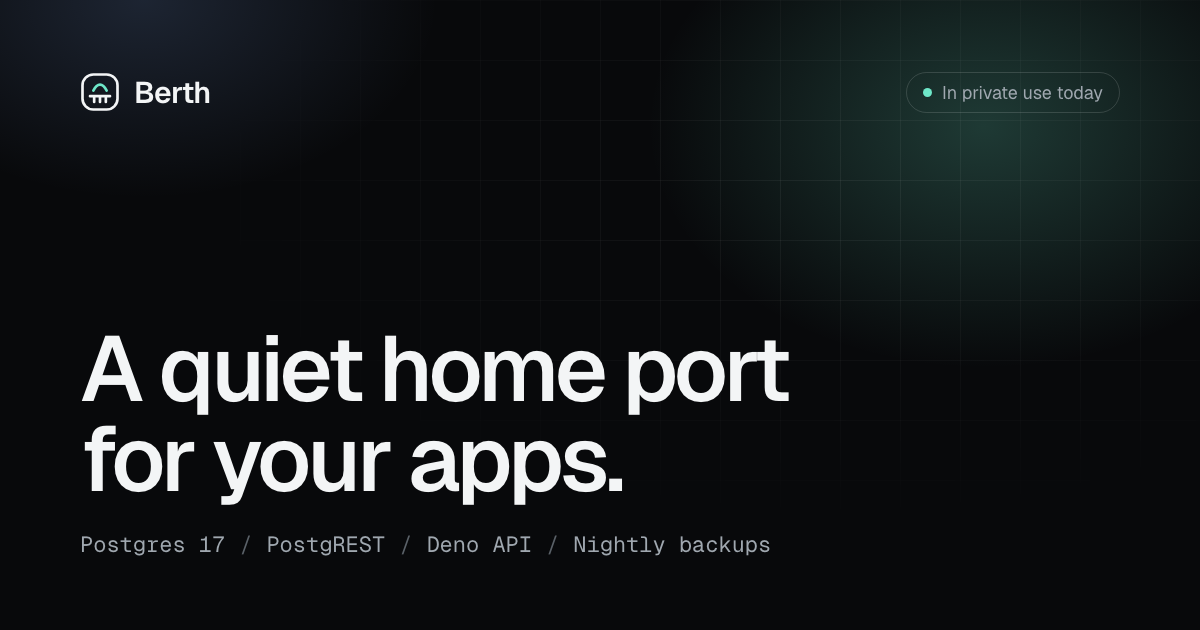
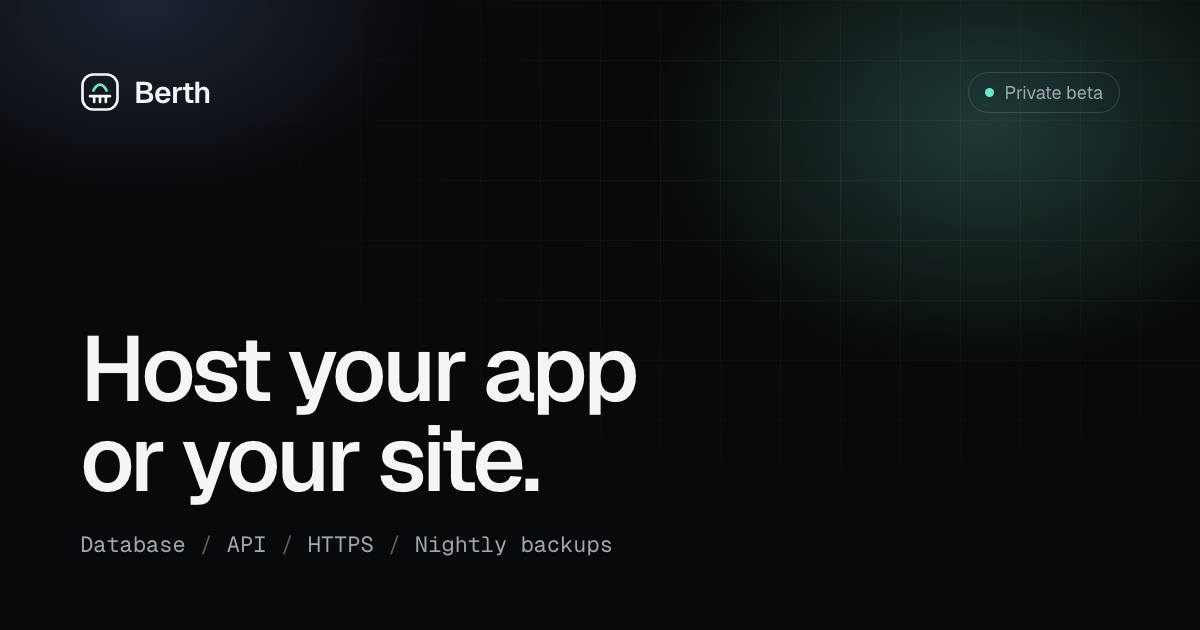
copy: sell Berth as paid hosting
Visitors should see a berth they can request, with a database, API, HTTPS, and backups, instead of a personal migration story.

diff --git a/src/index.html b/src/index.html
@@ -3,8 +3,8 @@
 <head>
 <meta charset="utf-8">
 <meta name="viewport" content="width=device-width, initial-scale=1, viewport-fit=cover">
-<title>Berth: a quiet home port for your apps</title>
-<meta name="description" content="Berth is a self-built hosting stack: Postgres 17, PostgREST, and a Deno API on one always-on server, with nightly backups and verified syncs. In private use today. Goal: a $0 monthly bill.">
+<title>Berth: host your app or your site</title>
+<meta name="description" content="Berth hosts your app or website on Mike's servers. You get a database, an API, HTTPS, and nightly backups. Private beta. Pricing when you request access.">
 <link rel="canonical" href="https://atberth.com/">
 <meta name="theme-color" content="#08090b" media="(prefers-color-scheme: dark)">
 <meta name="theme-color" content="#f6f6f3" media="(prefers-color-scheme: light)">
@@ -12,15 +12,15 @@
 <meta property="og:type" content="website">
 <meta property="og:site_name" content="Berth">
 <meta property="og:url" content="https://atberth.com/">
-<meta property="og:title" content="Berth: a quiet home port for your apps">
-<meta property="og:description" content="Postgres 17, PostgREST, and a Deno API on one always-on server. Nightly backups. Verified syncs. A $0 monthly bill as the goal.">
+<meta property="og:title" content="Berth: host your app or your site">
+<meta property="og:description" content="Paid hosting for your app or website. Database, API, HTTPS, and nightly backups. Private beta. Pricing when you request access.">
 <meta property="og:image" content="https://atberth.com/assets/og.png">
 <meta property="og:image:width" content="1200">
 <meta property="og:image:height" content="630">
-<meta property="og:image:alt" content="Berth. A quiet home port for your apps.">
+<meta property="og:image:alt" content="Berth. Host your app or your site.">
 <meta name="twitter:card" content="summary_large_image">
-<meta name="twitter:title" content="Berth: a quiet home port for your apps">
-<meta name="twitter:description" content="Postgres 17, PostgREST, and a Deno API on one always-on server. Nightly backups. Verified syncs.">
+<meta name="twitter:title" content="Berth: host your app or your site">
+<meta name="twitter:description" content="Paid hosting for your app or website. Database, API, HTTPS, and nightly backups. Pricing when you request access.">
 <meta name="twitter:image" content="https://atberth.com/assets/og.png">
 <link rel="icon" href="/favicon.svg" type="image/svg+xml">
 <link rel="icon" href="/assets/favicon-32.png" sizes="32x32" type="image/png">
@@ -45,15 +45,15 @@
     <nav class="nav-links" aria-label="Primary">
       <a href="#platform">Platform</a>
       <a href="#how">How it works</a>
-      <a href="#status">Status</a>
-      <a href="#apps">Apps</a>
+      <a href="#status">Included</a>
+      <a href="#apps">Hosted</a>
     </nav>
     <div class="nav-actions">
       <button class="theme" type="button" aria-label="Switch to light theme" data-theme-toggle>
         <svg class="i-sun" viewBox="0 0 24 24" aria-hidden="true"><circle cx="12" cy="12" r="4"/><path d="M12 2v2M12 20v2M4.9 4.9l1.4 1.4M17.7 17.7l1.4 1.4M2 12h2M20 12h2M4.9 19.1l1.4-1.4M17.7 6.3l1.4-1.4"/></svg>
         <svg class="i-moon" viewBox="0 0 24 24" aria-hidden="true"><path d="M20 14.5A8 8 0 1 1 9.5 4a6.5 6.5 0 0 0 10.5 10.5z"/></svg>
       </button>
-      <a class="btn btn-sm btn-light" href="mailto:mikeshobes718@gmail.com?subject=Berth%20early%20access">Request early access</a>
+      <a class="btn btn-sm btn-light" href="mailto:mikeshobes718@gmail.com?subject=Request%20a%20berth">Request a berth</a>
     </div>
   </div>
 </header>
@@ -62,12 +62,12 @@
   <section class="hero">
     <div class="glow" aria-hidden="true"></div>
     <div class="wrap">
-      <p class="eyebrow rise"><span class="dot" aria-hidden="true"></span>In private use today</p>
-      <h1 class="rise r1">A quiet home port<br>for your apps.</h1>
+      <p class="eyebrow rise"><span class="dot" aria-hidden="true"></span>Private beta</p>
+      <h1 class="rise r1">Host your app<br>or your site.</h1>
       <div class="hero-sub rise r2">
-        <p>Berth is a self-built hosting stack that moves apps off Supabase and Vercel. Postgres, an instant REST API, and nightly backups on one always-on server. The goal is a $0 monthly bill.</p>
+        <p>Berth hosts it on Mike's servers. You get a database, an API, HTTPS, and nightly backups. This is paid hosting, in private beta. Pricing when you request access.</p>
         <div class="hero-cta">
-          <a class="btn btn-light" href="mailto:mikeshobes718@gmail.com?subject=Berth%20early%20access">Request early access</a>
+          <a class="btn btn-light" href="mailto:mikeshobes718@gmail.com?subject=Request%20a%20berth">Request a berth</a>
           <a class="btn btn-ghost" href="#how">How it works <span aria-hidden="true">&rarr;</span></a>
         </div>
       </div>
@@ -75,19 +75,17 @@
       <figure class="window rise r3" aria-labelledby="flow-cap">
         <div class="window-bar">
           <span class="lights" aria-hidden="true"><i></i><i></i><i></i></span>
-          <span class="window-title">berth / data path</span>
-          <span class="tag">Design diagram, not live data</span>
+          <span class="window-title">berth / your app</span>
+          <span class="tag">Illustrative</span>
         </div>
         <div class="flow">
           <div class="node apps">
-            <p class="node-k">Apps</p>
-            <ul class="chips">
-              <li>Clip</li><li>Spot</li><li>Haul</li><li>Riff</li><li>FormForge</li><li>Heard</li><li>13 Luas</li>
-            </ul>
+            <p class="node-k">Your app</p>
+            <p class="node-v">The app or site you want hosted.</p>
           </div>
           <div class="wire" aria-hidden="true"></div>
           <div class="vm">
-            <p class="vm-label"><span>Oracle Cloud Always Free</span><span>ARM</span><span>2 cores</span><span>12 GB</span></p>
+            <p class="vm-label"><span>Your berth</span><span>HTTPS</span><span>API</span><span>Postgres</span></p>
             <div class="vm-grid">
               <div class="node n-https">
                 <p class="node-k">HTTPS</p>
@@ -113,25 +111,25 @@
                 <svg class="moon" viewBox="0 0 24 24" aria-hidden="true"><path d="M20 14.5A8 8 0 1 1 9.5 4a6.5 6.5 0 0 0 10.5 10.5z"/></svg>
                 <div>
                   <p class="node-k">Every night</p>
-                  <p class="node-v">Database backup. Sync from the live database, every table count checked.</p>
+                  <p class="node-v">Database backup. Table counts checked.</p>
                 </div>
               </div>
             </div>
             <p class="vm-foot"><span class="lock" aria-hidden="true"></span>The database is never exposed to the internet.</p>
           </div>
         </div>
-        <figcaption id="flow-cap" class="sr">Apps call api.atberth.com over HTTPS. A Deno API checks the token, PostgREST turns requests into queries, and Postgres 17 answers on a private network. Every night the database is backed up and synced, with every table count checked. All of it runs on one Oracle Cloud Always Free ARM server with 2 cores and 12 GB of memory.</figcaption>
+        <figcaption id="flow-cap" class="sr">Illustrative diagram of what a customer's app runs on. The app calls the API over HTTPS. A Deno API checks the token, PostgREST turns requests into queries, and Postgres 17 answers on a private network. Every night the database is backed up and table counts are checked. The database is never exposed to the internet.</figcaption>
       </figure>
     </div>
   </section>
 
   <section class="facts" aria-label="Key facts">
     <div class="wrap facts-row">
-      <div><p class="f-v">$0</p><p class="f-k">Monthly bill, the goal</p></div>
-      <div><p class="f-v">17</p><p class="f-k">Postgres version</p></div>
-      <div><p class="f-v">2<small>ARM cores</small></p><p class="f-k">Always on</p></div>
-      <div><p class="f-v">12<small>GB</small></p><p class="f-k">Memory</p></div>
-      <div><p class="f-v">Nightly</p><p class="f-k">Backup and verified sync</p></div>
+      <div><p class="f-v">Postgres</p><p class="f-k">Your database</p></div>
+      <div><p class="f-v">HTTPS</p><p class="f-k">API for your app</p></div>
+      <div><p class="f-v">Nightly</p><p class="f-k">Backups</p></div>
+      <div><p class="f-v">Token</p><p class="f-k">On every request</p></div>
+      <div><p class="f-v">Beta</p><p class="f-k">Pricing on request</p></div>
     </div>
   </section>
 
@@ -139,15 +137,15 @@
     <div class="wrap">
       <div class="sec-head reveal">
         <p class="kicker">Platform</p>
-        <h2>Everything an app needs.<br><span class="soft">Nothing it bills for.</span></h2>
-        <p class="lede">The core pieces behind every app on Berth. Real Postgres, an API in front of it, and the boring nightly work that keeps data safe.</p>
+        <h2>What you get.<br><span class="soft">A place to run it.</span></h2>
+        <p class="lede">You pay Berth to host the app or site. That berth includes a database, an API, HTTPS, and a backup every night.</p>
       </div>
 
       <div class="bento">
         <article class="card c-db reveal">
           <div class="ico" aria-hidden="true"><svg viewBox="0 0 24 24"><ellipse cx="12" cy="5.5" rx="7.5" ry="2.8"/><path d="M4.5 5.5v13c0 1.5 3.4 2.8 7.5 2.8s7.5-1.3 7.5-2.8v-13M4.5 12c0 1.5 3.4 2.8 7.5 2.8s7.5-1.3 7.5-2.8"/></svg></div>
           <h3>Postgres 17</h3>
-          <p>The database your apps already speak. Real Postgres on the server, reachable only from inside it.</p>
+          <p>The database for your app. Real Postgres on the server, reachable only from inside it.</p>
           <ul class="sub">
             <li><span class="b" aria-hidden="true"></span>Postgres 17</li>
             <li><span class="b" aria-hidden="true"></span>Private network only</li>
@@ -162,17 +160,17 @@
         <article class="card c-on reveal">
           <div class="ico" aria-hidden="true"><svg viewBox="0 0 24 24"><rect x="3.5" y="4" width="17" height="7" rx="2"/><rect x="3.5" y="13" width="17" height="7" rx="2"/><path d="M7 7.5h.01M7 16.5h.01"/></svg></div>
           <h3>Always on</h3>
-          <p>One server that never sleeps. Oracle Cloud Always Free, on ARM.</p>
+          <p>Your app runs on a server that stays up. Berth looks after the machine.</p>
           <ul class="sub">
-            <li><span class="b" aria-hidden="true"></span>2 ARM cores</li>
-            <li><span class="b" aria-hidden="true"></span>12 GB of memory</li>
+            <li><span class="b" aria-hidden="true"></span>Server stays up</li>
+            <li><span class="b" aria-hidden="true"></span>Berth runs it for you</li>
           </ul>
         </article>
 
         <article class="card reveal">
           <div class="ico" aria-hidden="true"><svg viewBox="0 0 24 24"><path d="M8 5 3 12l5 7M16 5l5 7-5 7"/></svg></div>
           <h3>PostgREST</h3>
-          <p>Tables become REST endpoints. No hand-written CRUD layer to keep in sync.</p>
+          <p>Your tables become REST endpoints. The API follows the database schema.</p>
           <pre class="code" aria-label="Example request"><code><span class="c-k">GET</span> https://api.atberth.com/...
 <span class="c-d">Authorization: Bearer $TOKEN</span></code></pre>
         </article>
@@ -180,7 +178,7 @@
         <article class="card reveal">
           <div class="ico" aria-hidden="true"><svg viewBox="0 0 24 24"><path d="M4 17.5 9.5 12 4 6.5M12 18h8"/></svg></div>
           <h3>Deno API</h3>
-          <p>Custom server logic in TypeScript, sitting in front of the database behind HTTPS.</p>
+          <p>Server logic in TypeScript, in front of your database, behind HTTPS.</p>
           <ul class="sub">
             <li><span class="b" aria-hidden="true"></span>HTTPS at api.atberth.com</li>
             <li><span class="b" aria-hidden="true"></span>TypeScript on Deno</li>
@@ -198,21 +196,21 @@
         </article>
 
         <article class="card c-zero reveal">
-          <div class="ico" aria-hidden="true"><svg viewBox="0 0 24 24"><circle cx="12" cy="12" r="8.5"/><path d="M14.8 9.2c-.5-.9-1.6-1.4-2.8-1.4-1.6 0-2.8.8-2.8 2.1 0 3 5.8 1.4 5.8 4.3 0 1.3-1.3 2.1-3 2.1-1.3 0-2.5-.6-3-1.6M12 6.3v1.5M12 16.9v1.2"/></svg></div>
-          <h3>$0 is the goal</h3>
-          <p>Anything that can be self-built is self-built, so the monthly bill for it can sit at zero.</p>
-          <p class="big-zero" aria-hidden="true">$0<span>/mo</span></p>
+          <div class="ico" aria-hidden="true"><svg viewBox="0 0 24 24"><path d="M4 12.5 12.5 4H19v6.5L10.5 19.5 4 12.5z"/><circle cx="16" cy="8" r="1" fill="currentColor" stroke="none"/></svg></div>
+          <h3>Pricing on request</h3>
+          <p>Private beta. No public price list yet. You get the price when you ask for a berth.</p>
+          <p class="big-zero" aria-hidden="true">Beta</p>
         </article>
 
         <article class="card c-night reveal">
           <div class="ico" aria-hidden="true"><svg viewBox="0 0 24 24"><path d="M20 14.5A8 8 0 1 1 9.5 4a6.5 6.5 0 0 0 10.5 10.5z"/></svg></div>
-          <h3>Nightly backup and verified sync</h3>
-          <p>Every night the database is backed up, and the live database is synced to the server. Then every table count is checked, so a quiet failure cannot hide.</p>
+          <h3>Nightly backups</h3>
+          <p>Every night your database is backed up. Table counts are checked, so a failed backup does not pass quietly.</p>
           <div class="term" aria-label="Illustrative nightly run">
             <p class="term-h"><span>nightly run</span><span class="tag">Illustrative</span></p>
             <p><span class="t-dim">01</span> backup&nbsp;&nbsp;database&nbsp;&nbsp;<span class="t-ok">done</span></p>
-            <p><span class="t-dim">02</span> sync&nbsp;&nbsp;&nbsp;&nbsp;live to berth&nbsp;&nbsp;<span class="t-ok">done</span></p>
-            <p><span class="t-dim">03</span> check&nbsp;&nbsp;&nbsp;every table count&nbsp;&nbsp;<span class="t-ok">match</span></p>
+            <p><span class="t-dim">02</span> check&nbsp;&nbsp;&nbsp;every table count&nbsp;&nbsp;<span class="t-ok">match</span></p>
+            <p><span class="t-dim">03</span> database stays private&nbsp;&nbsp;<span class="t-ok">yes</span></p>
           </div>
         </article>
       </div>
@@ -223,25 +221,25 @@
     <div class="wrap how">
       <div class="how-copy reveal">
         <p class="kicker">How it works</p>
-        <h2>From rented to moored,<br><span class="soft">one careful step at a time.</span></h2>
-        <p class="lede">Moving an app is not a leap. The data comes over first, gets checked, and only then does traffic follow.</p>
+        <h2>Request a berth.<br><span class="soft">We host the app.</span></h2>
+        <p class="lede">No public signup. You write, Berth sets up the database, the API, and HTTPS, and your app runs there.</p>
       </div>
       <ol class="steps reveal">
         <li>
           <span class="num" aria-hidden="true">1</span>
-          <div><h3>Mirror</h3><p>A nightly sync copies the live database onto the Berth server, table by table.</p></div>
+          <div><h3>Request</h3><p>Tell us the app or site you want hosted. Pricing comes back with the reply.</p></div>
         </li>
         <li>
           <span class="num" aria-hidden="true">2</span>
-          <div><h3>Verify</h3><p>Every table count is checked against the source. A mismatch is a failure, not a footnote.</p></div>
+          <div><h3>Set up</h3><p>Berth prepares a database, an API, and HTTPS for it.</p></div>
         </li>
         <li>
           <span class="num" aria-hidden="true">3</span>
-          <div><h3>Point</h3><p>The app talks to api.atberth.com over HTTPS, with a token on every request.</p></div>
+          <div><h3>Connect</h3><p>Your app calls the API over HTTPS. Every request carries a token.</p></div>
         </li>
         <li>
           <span class="num" aria-hidden="true">4</span>
-          <div><h3>Protect</h3><p>The database stays off the internet, and a fresh backup lands every night.</p></div>
+          <div><h3>Keep</h3><p>Backups run every night. The database stays off the public internet.</p></div>
         </li>
       </ol>
     </div>
@@ -252,18 +250,18 @@
       <div class="status reveal">
         <div class="status-head">
           <div>
-            <p class="kicker">Status</p>
-            <h2 class="h3">What runs on Berth</h2>
+            <p class="kicker">Included</p>
+            <h2 class="h3">What your app runs on</h2>
           </div>
-          <p class="tag tag-lg">Design reference. Not live monitoring. This page fetches nothing.</p>
+          <p class="tag tag-lg">Illustrative list. Not live monitoring.</p>
         </div>
         <ul class="status-list">
-          <li><span class="pip" aria-hidden="true"></span><span class="s-n">Postgres 17</span><span class="s-d">Database, private network</span><span class="bars" aria-hidden="true"></span></li>
+          <li><span class="pip" aria-hidden="true"></span><span class="s-n">Postgres 17</span><span class="s-d">Database for your app</span><span class="bars" aria-hidden="true"></span></li>
           <li><span class="pip" aria-hidden="true"></span><span class="s-n">PostgREST</span><span class="s-d">REST from the schema</span><span class="bars" aria-hidden="true"></span></li>
-          <li><span class="pip" aria-hidden="true"></span><span class="s-n">Deno API</span><span class="s-d">Token required</span><span class="bars" aria-hidden="true"></span></li>
+          <li><span class="pip" aria-hidden="true"></span><span class="s-n">Deno API</span><span class="s-d">Token on every request</span><span class="bars" aria-hidden="true"></span></li>
           <li><span class="pip" aria-hidden="true"></span><span class="s-n">HTTPS</span><span class="s-d mono">api.atberth.com</span><span class="bars" aria-hidden="true"></span></li>
           <li><span class="pip pip-n" aria-hidden="true"></span><span class="s-n">Nightly backup</span><span class="s-d">Every night</span><span class="bars" aria-hidden="true"></span></li>
-          <li><span class="pip pip-n" aria-hidden="true"></span><span class="s-n">Nightly sync</span><span class="s-d">Every table count checked</span><span class="bars" aria-hidden="true"></span></li>
+          <li><span class="pip pip-n" aria-hidden="true"></span><span class="s-n">Nightly check</span><span class="s-d">Table counts checked</span><span class="bars" aria-hidden="true"></span></li>
         </ul>
       </div>
     </div>
@@ -272,19 +270,19 @@
   <section id="apps" class="section">
     <div class="wrap">
       <div class="sec-head reveal">
-        <p class="kicker">Apps</p>
-        <h2>Home port for seven apps.</h2>
-        <p class="lede">Each app has static legal and support pages, served free from GitHub Pages.</p>
+        <p class="kicker">Hosted</p>
+        <h2>Already hosting real apps.</h2>
+        <p class="lede">These already run on Berth. Yours can be next.</p>
       </div>
       <ul class="app-grid reveal">
-        <li><a href="https://mikeshobes718.github.io/berth/clip/"><span class="a-n">Clip</span><span class="a-l">Privacy, support</span><span class="arr" aria-hidden="true">&#8599;</span></a></li>
-        <li><a href="https://mikeshobes718.github.io/berth/spot/"><span class="a-n">Spot</span><span class="a-l">Privacy, support</span><span class="arr" aria-hidden="true">&#8599;</span></a></li>
-        <li><a href="https://mikeshobes718.github.io/berth/haul/"><span class="a-n">Haul</span><span class="a-l">Privacy, support</span><span class="arr" aria-hidden="true">&#8599;</span></a></li>
-        <li><a href="https://mikeshobes718.github.io/berth/riff/"><span class="a-n">Riff</span><span class="a-l">Privacy, support</span><span class="arr" aria-hidden="true">&#8599;</span></a></li>
-        <li><a href="https://mikeshobes718.github.io/berth/formforge/"><span class="a-n">FormForge</span><span class="a-l">Privacy, terms</span><span class="arr" aria-hidden="true">&#8599;</span></a></li>
-        <li><a href="https://mikeshobes718.github.io/berth/heard/"><span class="a-n">Heard</span><span class="a-l">Privacy, support</span><span class="arr" aria-hidden="true">&#8599;</span></a></li>
-        <li><a href="https://mikeshobes718.github.io/berth/treze-luas/"><span class="a-n">13 Luas</span><span class="a-l">Privacy, support</span><span class="arr" aria-hidden="true">&#8599;</span></a></li>
-        <li><a class="a-all" href="https://mikeshobes718.github.io/berth/"><span class="a-n">All pages</span><span class="a-l">Legal and support index</span><span class="arr" aria-hidden="true">&#8599;</span></a></li>
+        <li><a href="https://mikeshobes718.github.io/berth/clip/"><span class="a-n">Clip</span><span class="a-l">Hosted</span><span class="arr" aria-hidden="true">&#8599;</span></a></li>
+        <li><a href="https://mikeshobes718.github.io/berth/spot/"><span class="a-n">Spot</span><span class="a-l">Hosted</span><span class="arr" aria-hidden="true">&#8599;</span></a></li>
+        <li><a href="https://mikeshobes718.github.io/berth/haul/"><span class="a-n">Haul</span><span class="a-l">Hosted</span><span class="arr" aria-hidden="true">&#8599;</span></a></li>
+        <li><a href="https://mikeshobes718.github.io/berth/riff/"><span class="a-n">Riff</span><span class="a-l">Hosted</span><span class="arr" aria-hidden="true">&#8599;</span></a></li>
+        <li><a href="https://mikeshobes718.github.io/berth/formforge/"><span class="a-n">FormForge</span><span class="a-l">Hosted</span><span class="arr" aria-hidden="true">&#8599;</span></a></li>
+        <li><a href="https://mikeshobes718.github.io/berth/heard/"><span class="a-n">Heard</span><span class="a-l">Hosted</span><span class="arr" aria-hidden="true">&#8599;</span></a></li>
+        <li><a href="https://mikeshobes718.github.io/berth/treze-luas/"><span class="a-n">13 Luas</span><span class="a-l">Hosted</span><span class="arr" aria-hidden="true">&#8599;</span></a></li>
+        <li><a class="a-all" href="mailto:mikeshobes718@gmail.com?subject=Request%20a%20berth"><span class="a-n">Your app</span><span class="a-l">Request a berth</span><span class="arr" aria-hidden="true">&#8599;</span></a></li>
       </ul>
     </div>
   </section>
@@ -293,9 +291,9 @@
     <div class="wrap">
       <div class="cta reveal">
         <div class="cta-glow" aria-hidden="true"></div>
-        <h2>In private use today.</h2>
-        <p>Berth runs Mike's own apps for now. There is no signup, no billing, and no customer isolation yet. If you would like to host an app here later, say hello.</p>
-        <a class="btn btn-light" href="mailto:mikeshobes718@gmail.com?subject=Berth%20early%20access">Request early access</a>
+        <h2>Request a berth.</h2>
+        <p>Berth is opening for other people. There is no public signup and no price list yet. Tell us what you want hosted, and you get pricing in the reply.</p>
+        <a class="btn btn-light" href="mailto:mikeshobes718@gmail.com?subject=Request%20a%20berth">Request a berth</a>
       </div>
     </div>
   </section>
@@ -317,11 +315,11 @@
           <li><a href="#platform">PostgREST</a></li>
           <li><a href="#platform">Deno API</a></li>
           <li><a href="#how">How it works</a></li>
-          <li><a href="#status">Status</a></li>
+          <li><a href="#status">What you get</a></li>
         </ul>
       </div>
       <div>
-        <p class="foot-h">Apps</p>
+        <p class="foot-h">Hosted</p>
         <ul>
           <li><a href="https://mikeshobes718.github.io/berth/clip/">Clip</a></li>
           <li><a href="https://mikeshobes718.github.io/berth/spot/">Spot</a></li>
@@ -333,11 +331,11 @@
         </ul>
       </div>
       <div>
-        <p class="foot-h">Legal</p>
+        <p class="foot-h">Access</p>
         <ul>
-          <li><a href="https://mikeshobes718.github.io/berth/">Legal and support pages</a></li>
-          <li><a href="https://mikeshobes718.github.io/berth/formforge/privacy/">FormForge privacy</a></li>
-          <li><a href="https://mikeshobes718.github.io/berth/formforge/terms/">FormForge terms</a></li>
+          <li><a href="mailto:mikeshobes718@gmail.com?subject=Request%20a%20berth">Request a berth</a></li>
+          <li><a href="#how">How it works</a></li>
+          <li><a href="https://mikeshobes718.github.io/berth/">Pages for hosted apps</a></li>
         </ul>
       </div>
       <div>
@@ -349,8 +347,8 @@
       </div>
     </div>
     <div class="foot-base">
-      <p>&copy; 2026 Berth. In private use.</p>
-      <p>Hosted free on GitHub Pages.</p>
+      <p>&copy; 2026 Berth. Private beta.</p>
+      <p>Pricing when you request access.</p>
     </div>
   </div>
 </footer>

diff --git a/design/og.html b/design/og.html
@@ -20,11 +20,11 @@ p span+span::before{content:"/";margin-right:14px;color:#5a6168}
 </head>
 <body>
 <div class="bg"></div><div class="grid"></div>
-<div class="pill"><i></i>In private use today</div>
+<div class="pill"><i></i>Private beta</div>
 <div class="in">
   <div class="brand"><svg viewBox="0 0 24 24"><rect x="1.5" y="1.5" width="21" height="21" rx="6.5" fill="none" stroke="#f3f5f6" stroke-width="1.6"/><path d="M6 14.5h12M8.5 14.5v3.5M12 14.5v3.5M15.5 14.5v3.5" stroke="#f3f5f6" stroke-width="1.6" stroke-linecap="round"/><path d="M8 11.2c1.2-2.4 2.5-3.6 4-3.6s2.8 1.2 4 3.6" fill="none" stroke="#6ee7c8" stroke-width="1.6" stroke-linecap="round"/></svg>Berth</div>
-  <h1>A quiet home port<br>for your apps.</h1>
-  <p><span>Postgres 17</span><span>PostgREST</span><span>Deno API</span><span>Nightly backups</span></p>
+  <h1>Host your app<br>or your site.</h1>
+  <p><span>Database</span><span>API</span><span>HTTPS</span><span>Nightly backups</span></p>
 </div>
 </body>
 </html>

diff --git a/src/404.html b/src/404.html
@@ -14,8 +14,8 @@
   <div class="glow" aria-hidden="true"></div>
   <div class="wrap">
     <p class="eyebrow"><span class="dot" aria-hidden="true"></span>404</p>
-    <h1 style="margin:24px auto 0">Nothing moored here.</h1>
-    <p class="lede" style="margin:20px auto 32px">That page does not exist. The harbor is this way.</p>
+    <h1 style="margin:24px auto 0">This page is not here.</h1>
+    <p class="lede" style="margin:20px auto 32px">That address does not match a page on Berth.</p>
     <a class="btn btn-light" href="/">Back to Berth</a>
   </div>
 </main>
